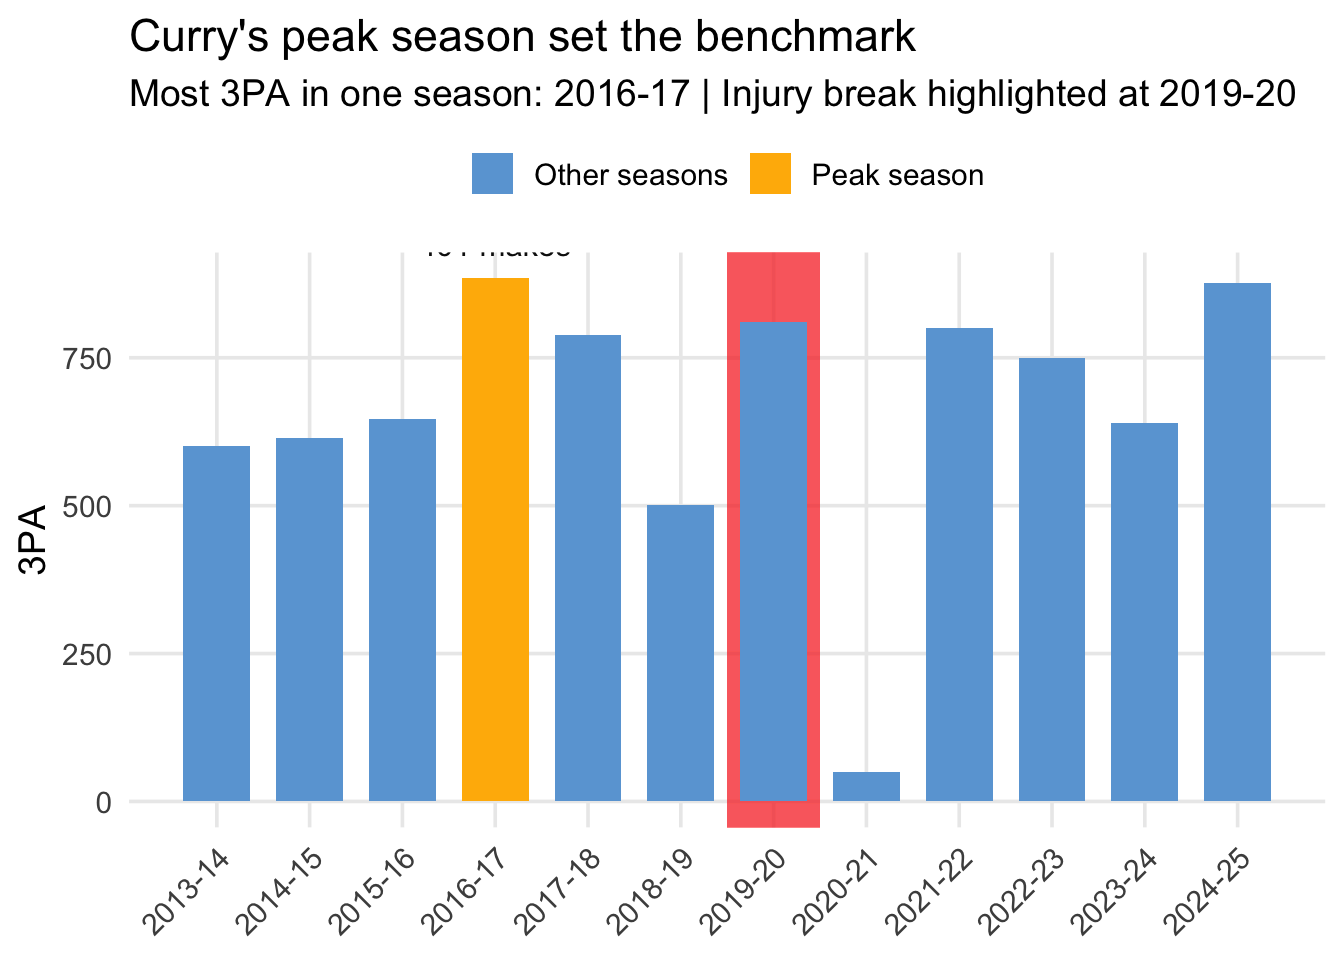
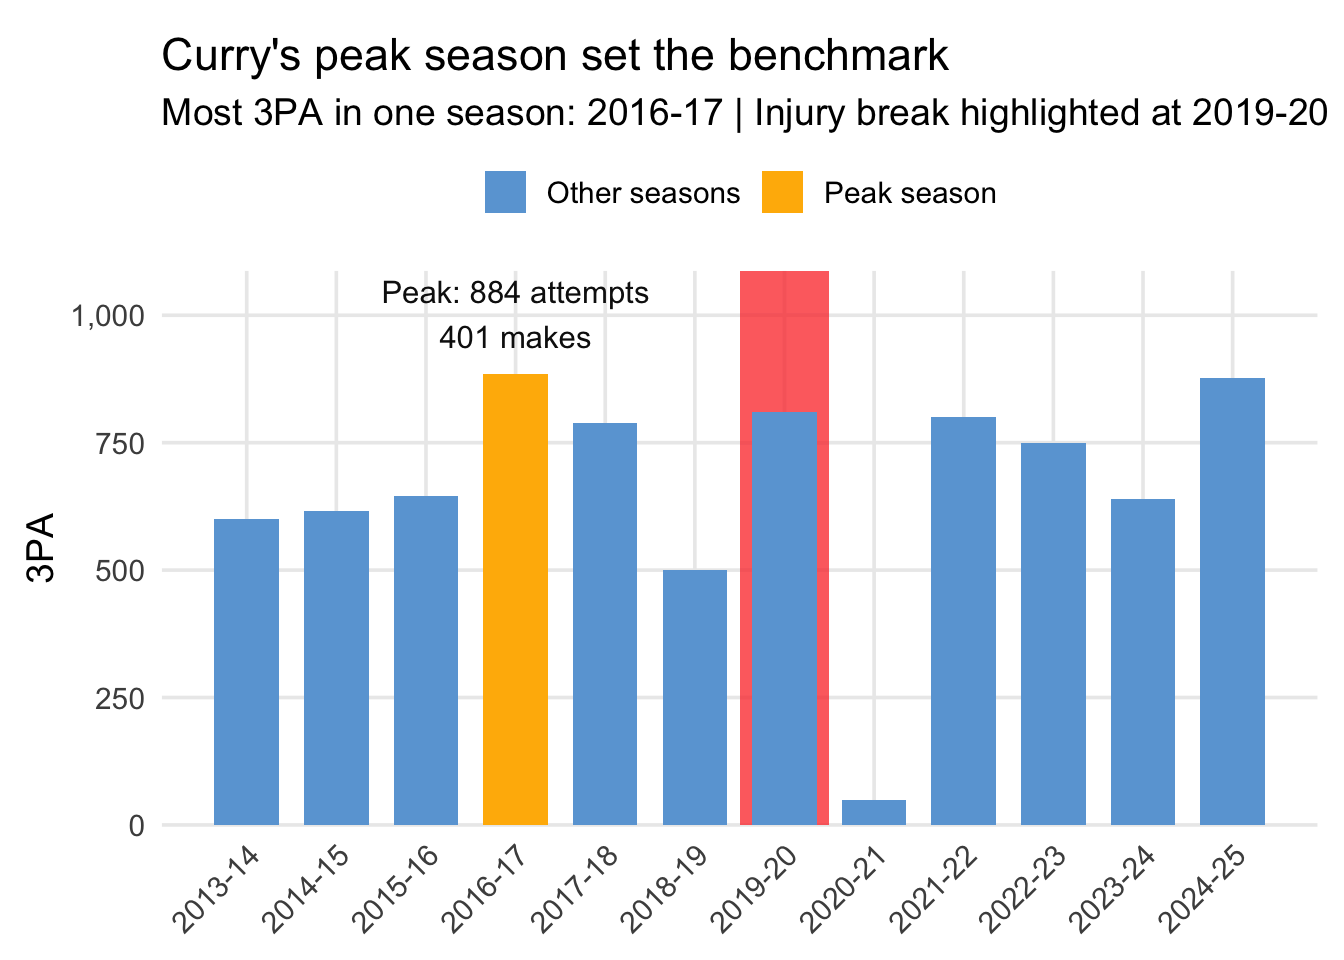
Prevent Story chart label clipping in peak-season panel

diff --git a/Scrollytell_NBA/docs/styles.css b/Scrollytell_NBA/docs/styles.css
@@ -45,6 +45,7 @@ p {
 .story-figure {
   display: none;
   width: 100%;
+  overflow: visible;
   opacity: 0;
   transform: translateY(6px);
   transition: opacity 220ms ease, transform 220ms ease;
@@ -99,6 +100,10 @@ p {
 
 .story-figure .cell-output-display > * {
   width: 100%;
+}
+
+.story-figure .cell-output-display {
+  overflow: visible;
 }
 
 .story-figure img,

diff --git a/Scrollytell_NBA/styles.css b/Scrollytell_NBA/styles.css
@@ -45,6 +45,7 @@ p {
 .story-figure {
   display: none;
   width: 100%;
+  overflow: visible;
   opacity: 0;
   transform: translateY(6px);
   transition: opacity 220ms ease, transform 220ms ease;
@@ -99,6 +100,10 @@ p {
 
 .story-figure .cell-output-display > * {
   width: 100%;
+}
+
+.story-figure .cell-output-display {
+  overflow: visible;
 }
 
 .story-figure img,
